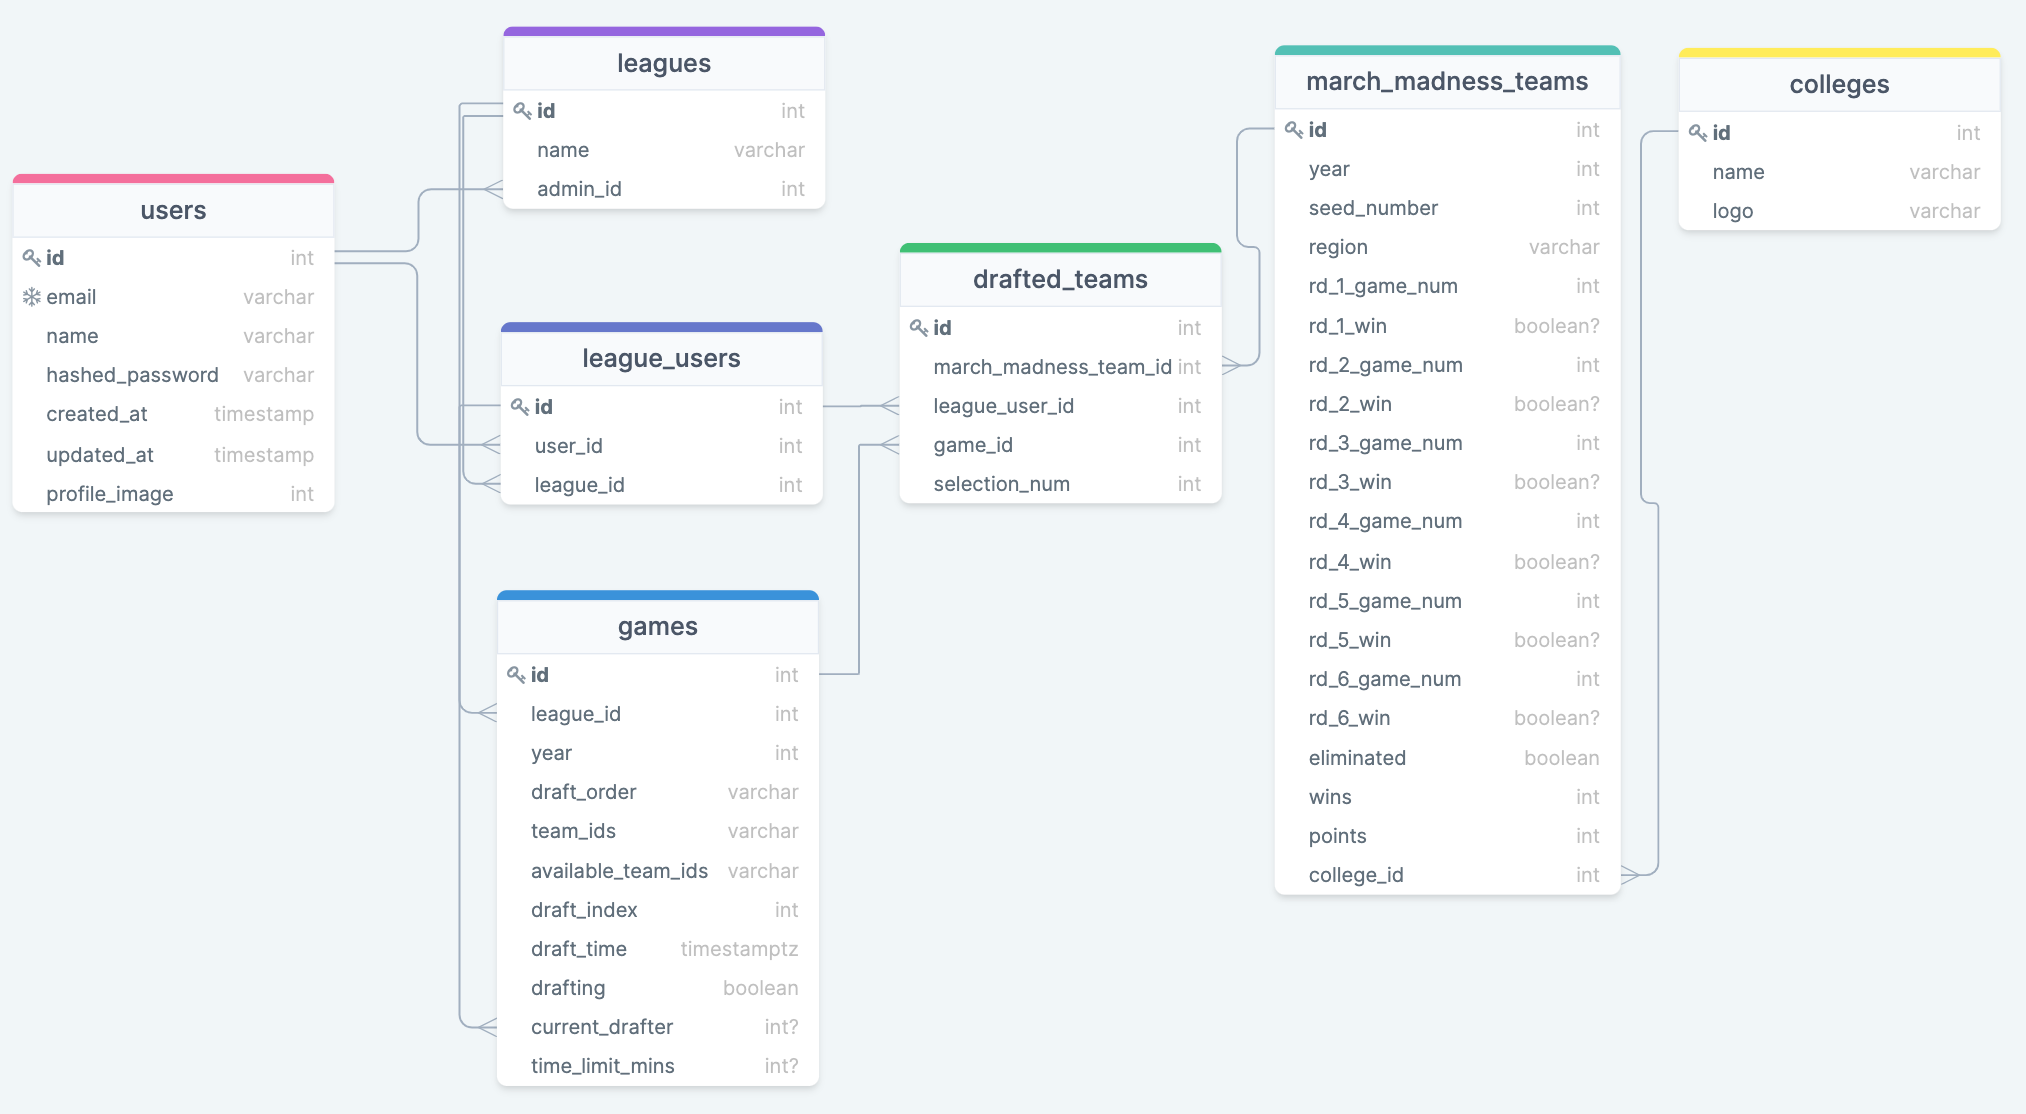
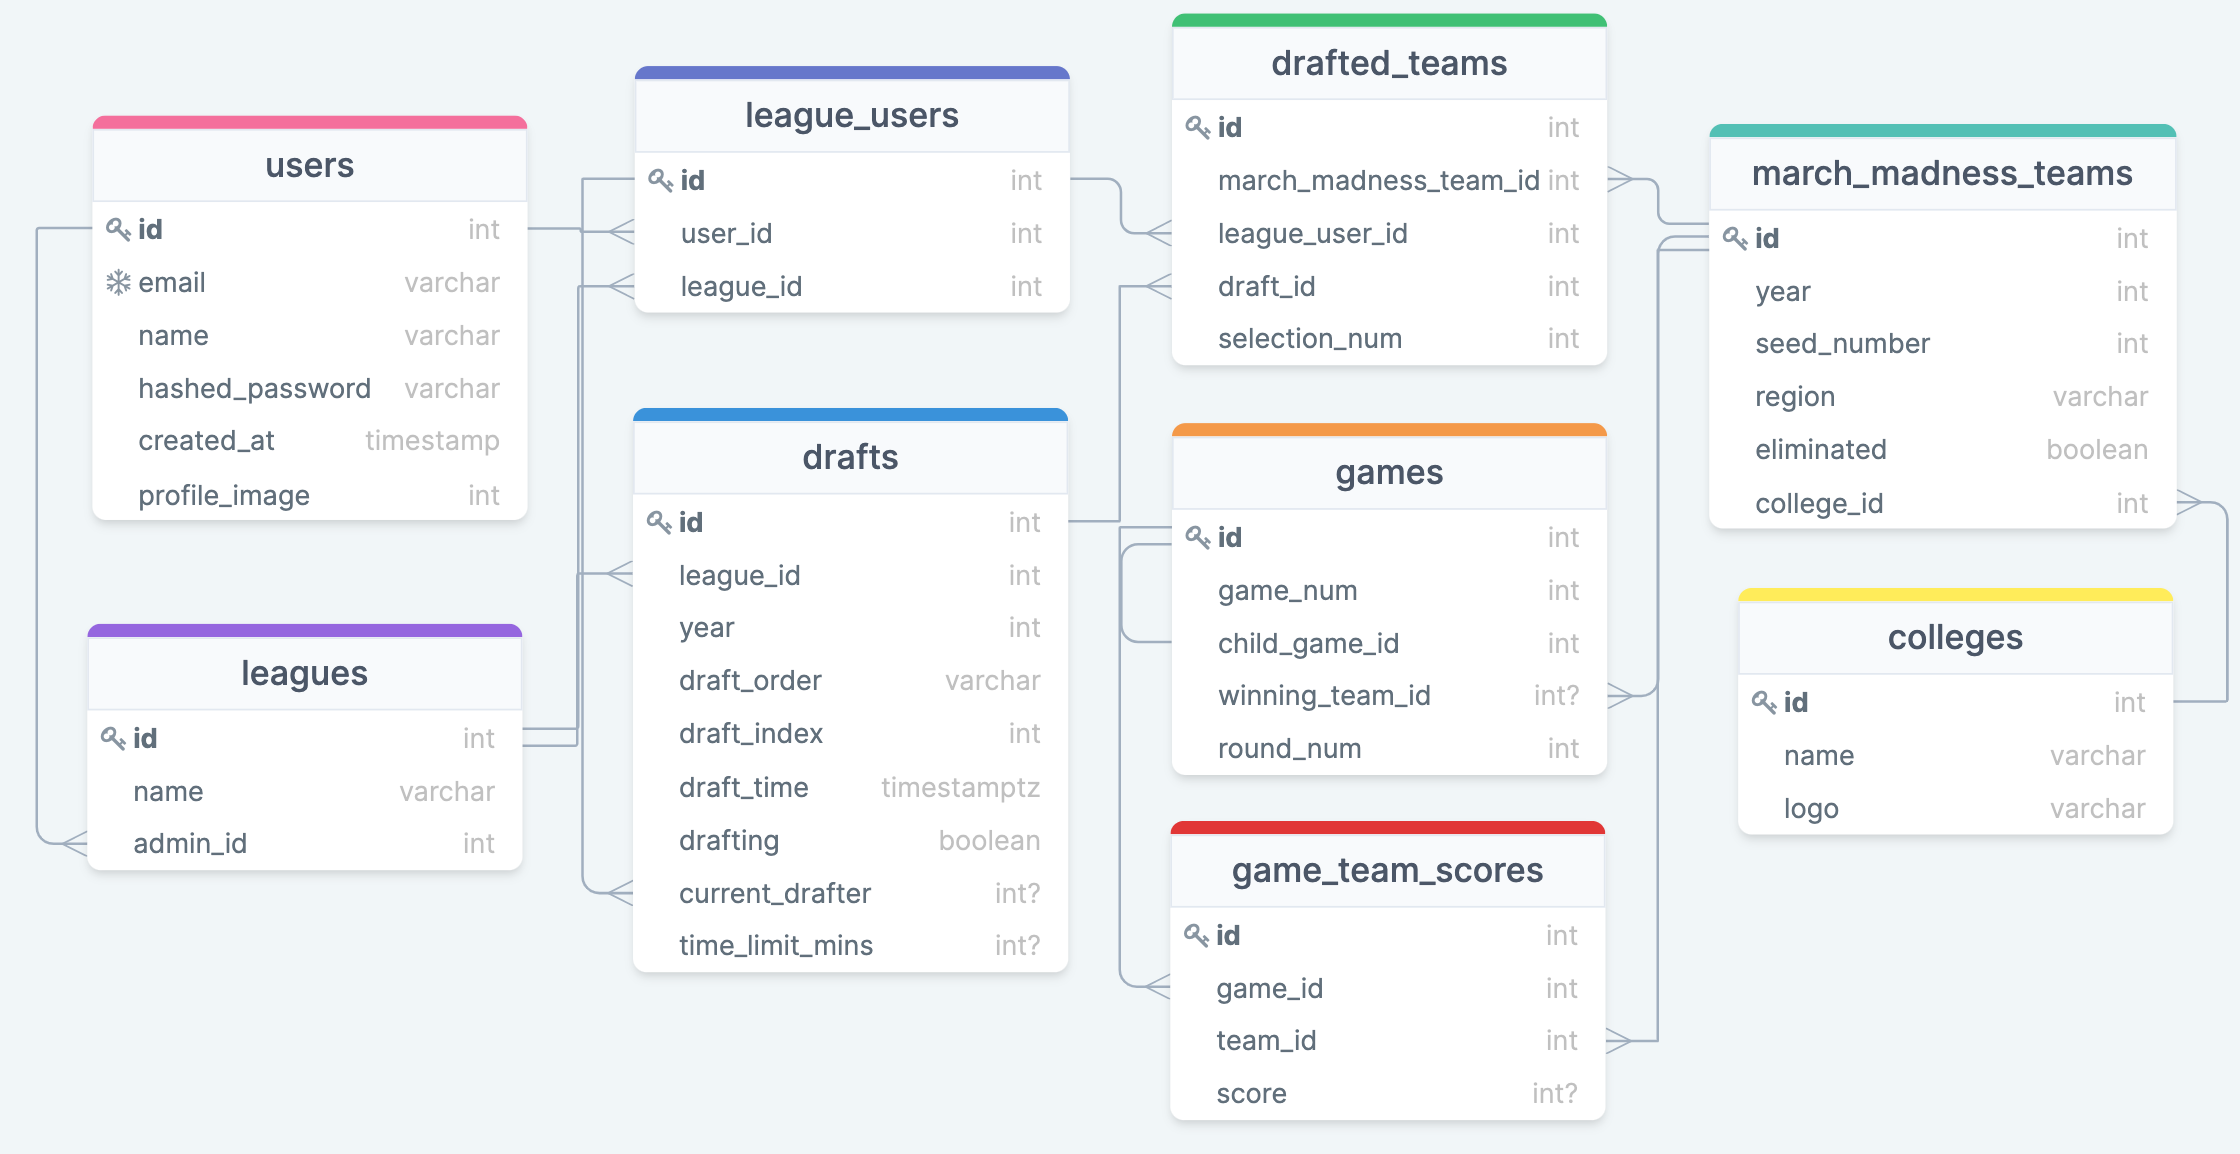
Feeling pretty good about the models

diff --git a/app/models/user.py b/app/models/user.py
@@ -1,33 +1,37 @@
 from .db import db
 from werkzeug.security import generate_password_hash, check_password_hash
 from flask_login import UserMixin
+from sqlalchemy.sql import func
+
 
 class User(db.Model, UserMixin):
-  __tablename__ = 'users'
+    __tablename__ = 'users'
 
-  id = db.Column(db.Integer, primary_key = True)
-  username = db.Column(db.String(40), nullable = False, unique = True)
-  email = db.Column(db.String(255), nullable = False, unique = True)
-  hashed_password = db.Column(db.String(255), nullable = False)
+    id = db.Column(db.Integer, primary_key=True)
+    name = db.Column(db.String(40), nullable=False)
+    email = db.Column(db.String(255), nullable=False, unique=True)
+    hashed_password = db.Column(db.String(255), nullable=False)
+    profile_image = db.Column(db.String(255), nullable=True)
 
+    leagues = db.relationship('League', secondary='league_users')
+    league_users = db.relationship('League_User', back_populates='user')
 
-  @property
-  def password(self):
-    return self.hashed_password
+    @property
+    def password(self):
+        return self.hashed_password
 
+    @password.setter
+    def password(self, password):
+        self.hashed_password = generate_password_hash(password)
 
-  @password.setter
-  def password(self, password):
-    self.hashed_password = generate_password_hash(password)
+    def check_password(self, password):
+        return check_password_hash(self.password, password)
 
-
-  def check_password(self, password):
-    return check_password_hash(self.password, password)
-
-
-  def to_dict(self):
-    return {
-      "id": self.id,
-      "username": self.username,
-      "email": self.email
-    }
+    def to_dict(self):
+        return {
+            "id": self.id,
+            "name": self.name,
+            "email": self.email,
+            "profile_image": self.profile_image,
+            "league_user_ids": [league_user.id for league_user in self.league_users]
+        }

diff --git a/app/models/draft.py b/app/models/draft.py
@@ -1,0 +1,37 @@
+from .db import db
+from sqlalchemy.sql import func
+import json
+
+
+class Draft(db.Model):
+    __tablename__ = 'drafts'
+
+    id = db.Column(db.Integer, primary_key=True)
+    league_id = db.Column(db.Integer, db.ForeignKey('leagues.id'), nullable=False)
+    year = db.Column(db.Integer,  nullable=False)
+    draft_order = db.Column(db.String(512), nullable=True)
+    draft_index = db.Column(db.Integer,  nullable=False)
+    draft_time = db.Column(db.DateTime(timezone=True), nullable=False)
+    drafting = db.Column(db.Boolean, nullable=False)
+    current_drafter_id = db.Column(db.Integer, db.ForeignKey('league_users.id'), nullable=True)
+    time_limit_mins = db.Column(db.Integer,  nullable=True)
+
+    __table_args__ = (db.Index("unique_draft_per_league_year", "league_id", "year", unique=True),)
+
+    league = db.relationship('League', back_populates='drafts')
+    current_drafter = db.relationship('League_User')
+    drafted_teams = db.relationship('Drafted_Team', back_populates='draft')
+
+    def to_dict(self):
+        return {
+            "id": self.id,
+            "league_id": self.league_id,
+            "year": self.year,
+            "draft_order": json.loads(self.draft_order),
+            "draft_index": self.draft_index,
+            "draft_time": self.draft_time,
+            "drafting": self.drafting,
+            "current_drafter_id": self.current_drafter_id,
+            "time_limit_mins": self.time_limit_mins,
+            "drafted_team_ids": [drafted_team.id for drafted_team in self.drafted_teams]
+        }

diff --git a/app/models/march_madness_team.py b/app/models/march_madness_team.py
@@ -1,0 +1,33 @@
+from .db import db
+from sqlalchemy.sql import func
+import json
+
+
+class March_Madness_Team(db.Model):
+    __tablename__ = 'march_madness_teams'
+
+    id = db.Column(db.Integer, primary_key=True)
+    year = db.Column(db.Integer,  nullable=False)
+    seed_number = db.Column(db.Integer,  nullable=False)
+    region = db.Column(db.String(50), nullable=False)
+    eliminated = db.Column(db.Boolean, nullable=False, default=False)
+    # Nullable because of those dumb fake first round games
+    college_id = db.Column(db.Integer, db.ForeignKey('colleges.id'), nullable=True)
+
+    college = db.relationship('College', back_populates='march_madness_teams')
+    won_games = db.relationship('Game', back_populates='winning_team')
+    # game_scores = db.relationship('Game_Team_Score', back_populates='team')
+    games = db.relationship(
+        'Game', secondary='game_team_scores', back_populates='teams')
+
+
+    def to_dict(self):
+        return {
+            "id": self.id,
+            "league_id": self.league_id,
+            "year": self.year,
+            "seed_number": self.seed_number,
+            "region": self.region,
+            "eliminated": self.eliminated,
+            "college_id": self.college_id,
+        }

diff --git a/app/models/drafted_team.py b/app/models/drafted_team.py
@@ -1,0 +1,31 @@
+from .db import db
+from sqlalchemy.sql import func
+
+
+class Drafted_Team(db.Model):
+    __tablename__ = 'drafted_teams'
+
+    id = db.Column(db.Integer, primary_key=True)
+    march_madness_team_id = db.Column(db.Integer, db.ForeignKey(
+        'march_madness_teams.id'), nullable=False)
+    league_user_id = db.Column(db.Integer, db.ForeignKey(
+        'league_users.id'), nullable=False)
+    draft_id = db.Column(db.Integer, db.ForeignKey(
+        'drafts.id'), nullable=False)
+    selection_num = db.Column(db.Integer, nullable=False)
+
+    __table_args__ = (db.Index("unique_per_draft", "draft_id",
+                               "march_madness_team_id", unique=True),)
+
+    march_madness_team = db.relationship('March_Madness_Team')
+    league_user = db.relationship('League_User', back_populates='drafted_teams')
+    draft = db.relationship('Draft', back_populates='drafted_teams')
+
+    def to_dict(self):
+        return {
+            "id": self.id,
+            "march_madness_team_id": self.march_madness_team_id,
+            "league_user_id": self.league_user_id,
+            "draft_id": self.draft_id,
+            "selection_num": self.selection_num,
+        }

diff --git a/app/models/game.py b/app/models/game.py
@@ -1,0 +1,30 @@
+from .db import db
+from sqlalchemy.sql import func
+
+
+class Game(db.Model):
+    __tablename__ = 'games'
+
+    id = db.Column(db.Integer, primary_key=True)
+    round_num = db.Column(db.Integer, nullable=False)
+    game_num = db.Column(db.Integer, nullable=False)
+    winning_team_id = db.Column(db.Integer, db.ForeignKey(
+        'march_madness_teams.id'), nullable=True)
+    child_game_id = db.Column(db.Integer, db.ForeignKey(
+        'games.id'), nullable=True)
+
+    teams = db.relationship(
+        'March_Madness_Team', secondary='game_team_scores', back_populates='games')
+    game_team_scores = db.relationship(
+        'Game_Team_Score', back_populates='game')
+    winning_team = db.relationship('March_Madness_Team', back_populates='won_games')
+    child_game = db.relationship('Game')
+
+    # def to_dict(self):
+    #     return {
+    #         "id": self.id,
+    #         "march_madness_team_id": self.march_madness_team_id,
+    #         "league_user_id": self.league_user_id,
+    #         "draft_id": self.draft_id,
+    #         "selection_num": self.selection_num,
+    #     }

diff --git a/app/models/game_team_score.py b/app/models/game_team_score.py
@@ -1,0 +1,25 @@
+from .db import db
+from sqlalchemy.sql import func
+
+
+class Game_Team_Score(db.Model):
+    __tablename__ = 'game_team_scores'
+
+    id = db.Column(db.Integer, primary_key=True)
+    game_id = db.Column(db.Integer, db.ForeignKey(
+        'games.id'), nullable=False)
+    team_id = db.Column(db.Integer, db.ForeignKey(
+        'march_madness_teams.id'), nullable=False)
+    score = db.Column(db.Integer, nullable=False)
+
+    team = db.relationship('March_Madness_Team')
+    game = db.relationship('Game', back_populates='game_team_scores')
+
+    # def to_dict(self):
+    #     return {
+    #         "id": self.id,
+    #         "march_madness_team_id": self.march_madness_team_id,
+    #         "league_user_id": self.league_user_id,
+    #         "draft_id": self.draft_id,
+    #         "selection_num": self.selection_num,
+    #     }

diff --git a/app/models/league_user.py b/app/models/league_user.py
@@ -1,0 +1,23 @@
+from .db import db
+from sqlalchemy.sql import func
+
+
+class League_User(db.Model):
+    __tablename__ = 'leagues'
+
+    id = db.Column(db.Integer, primary_key=True)
+    user_id = db.Column(db.Integer, db.ForeignKey('users.id'), nullable=False)
+    league_id = db.Column(db.Integer, db.ForeignKey(
+        'leagues.id'), nullable=False)
+
+    user = db.relationship('User', back_populates='league_users')
+    league = db.relationship('League', back_populates='league_users')
+    drafted_teams = db.relationship('Drafted_Team', back_populates='league_user')
+
+    def to_dict(self):
+        return {
+            "id": self.id,
+            "user_id": self.user_id,
+            "league_id": self.league_id,
+            "drafted_teams": [drafted_team.id for drafted_team in self.drafted_teams]
+        }

diff --git a/app/models/league.py b/app/models/league.py
@@ -1,0 +1,23 @@
+from .db import db
+from sqlalchemy.sql import func
+
+
+class League(db.Model):
+    __tablename__ = 'leagues'
+
+    id = db.Column(db.Integer, primary_key=True)
+    name = db.Column(db.String(100), nullable=False)
+    admin_id = db.Column(db.Integer, db.ForeignKey('users.id'), nullable=False)
+
+    admin = db.relationship('User')
+    drafts = db.relationship('Draft', back_populates='league')
+    league_users = db.relationship('League_User', back_populates='league')
+
+    def to_dict(self):
+        return {
+            "id": self.id,
+            "name": self.name,
+            "admin_id": self.admin_id,
+            "draft_ids": [draft.id for draft in self.drafts]
+            "league_user_ids": [league_user.id for league_user in self.league_users]
+        }

diff --git a/app/__init__.py b/app/__init__.py
@@ -29,8 +29,10 @@ def load_user(id):
 app.cli.add_command(seed_commands)
 
 app.config.from_object(Config)
+
 app.register_blueprint(user_routes, url_prefix='/api/users')
 app.register_blueprint(auth_routes, url_prefix='/api/auth')
+
 db.init_app(app)
 Migrate(app, db)
 
@@ -48,12 +50,3 @@ def inject_csrf_token(response):
                             'FLASK_ENV') == 'production' else None,
                         httponly=True)
     return response
-
-
-@app.route('/', defaults={'path': ''})
-@app.route('/<path:path>')
-def react_root(path):
-    print("path", path)
-    if path == 'favicon.ico':
-        return app.send_static_file('favicon.ico')
-    return app.send_static_file('index.html')

diff --git a/app/models/college.py b/app/models/college.py
@@ -1,0 +1,19 @@
+from .db import db
+from sqlalchemy.sql import func
+
+
+class College(db.Model):
+    __tablename__ = 'colleges'
+
+    id = db.Column(db.Integer, primary_key=True)
+    name = db.Column(db.String(50), nullable=False, unique=True)
+    logo = db.Column(db.String(256), nullable=False)
+
+    march_madness_teams = db.relationship('March_Madness_Team', back_populates='college')
+
+    def to_dict(self):
+        return {
+            "id": self.id,
+            "name": self.name,
+            "logo": self.logo,
+        }

diff --git a/app/forms/login_form.py b/app/forms/login_form.py
@@ -5,7 +5,6 @@ from app.models import User
 
 
 def user_exists(form, field):
-    print("Checking if user exists", field.data)
     email = field.data
     user = User.query.filter(User.email == email).first()
     if not user:
@@ -13,7 +12,6 @@ def user_exists(form, field):
 
 
 def password_matches(form, field):
-    print("Checking if password matches")
     password = field.data
     email = form.data['email']
     user = User.query.filter(User.email == email).first()

diff --git a/app/forms/signup_form.py b/app/forms/signup_form.py
@@ -5,7 +5,6 @@ from app.models import User
 
 
 def user_exists(form, field):
-    print("Checking if user exits", field.data)
     email = field.data
     user = User.query.filter(User.email == email).first()
     if user:
